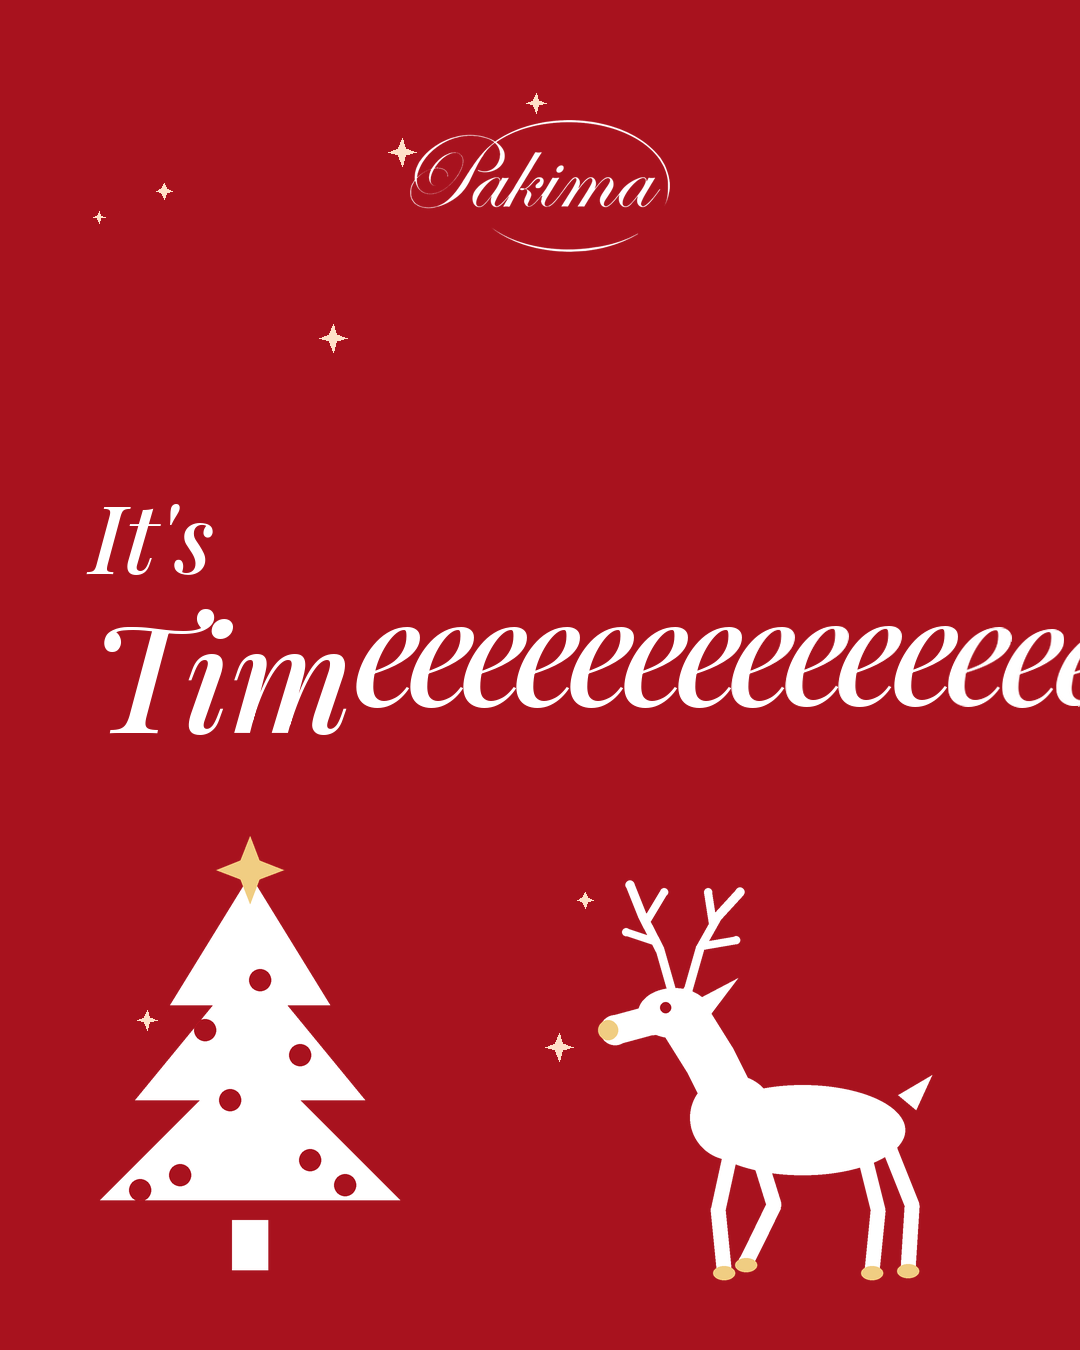
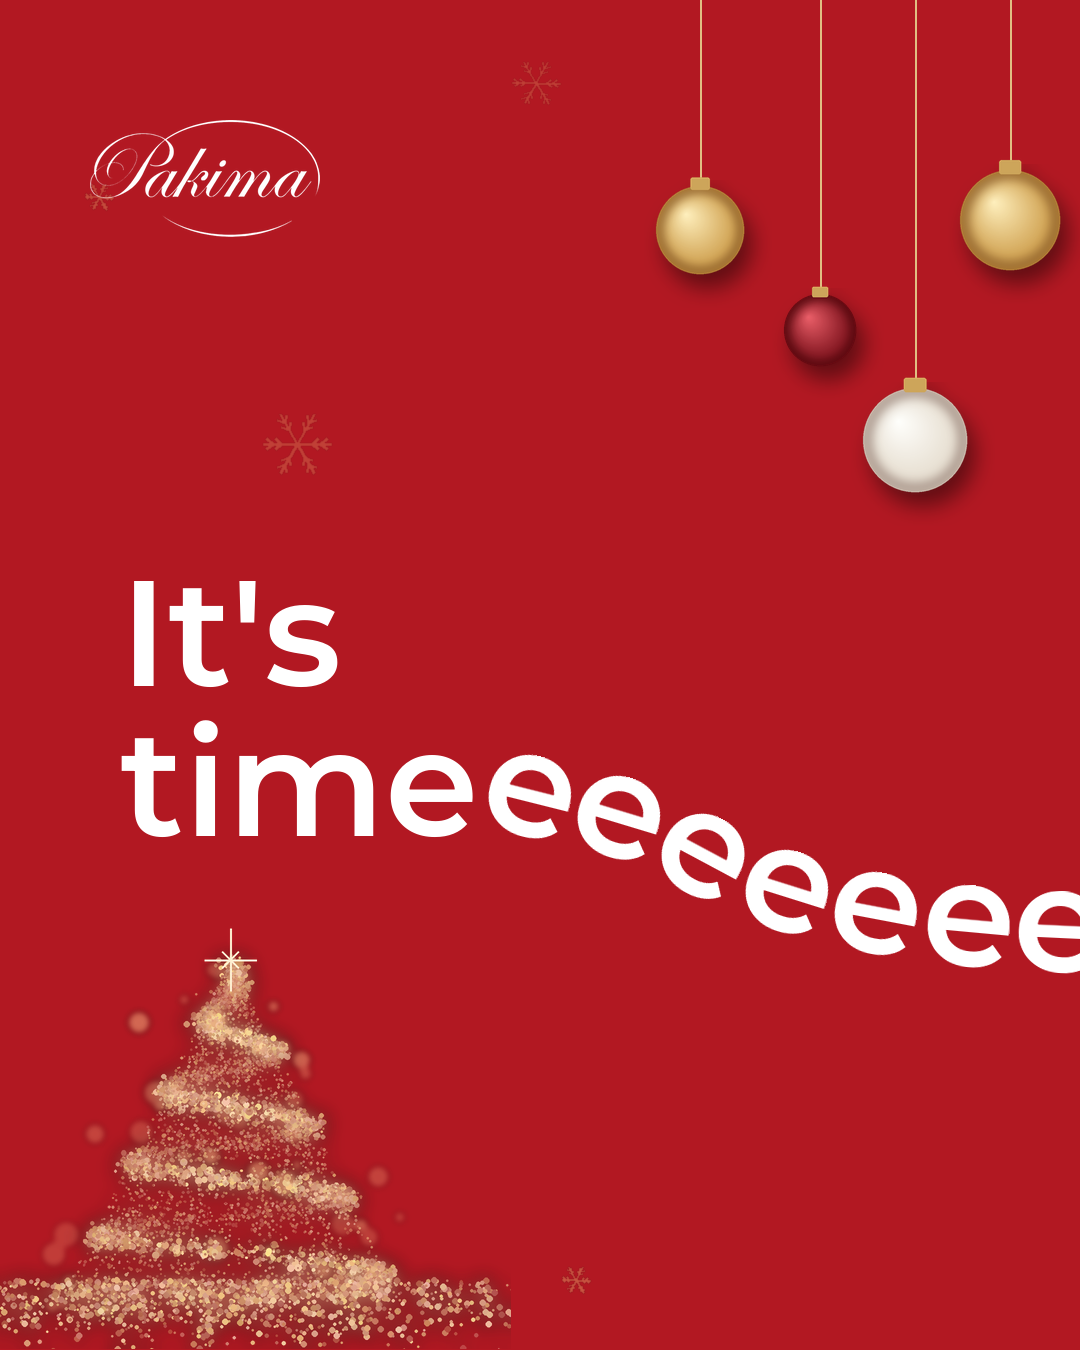
Carosello regali: stile elegante con alberello luminoso, palline e scia fluida
Claude-Session: https://claude.ai/code/session_01TRyadBTg1JbKFooPCfPKjK

diff --git a/output/2026-11-26-carosello-regali/crea.py b/output/2026-11-26-carosello-regali/crea.py
@@ -1,5 +1,10 @@
 #!/usr/bin/env python3
-"""Carosello continuo di Natale (trend "It's timeeee"): la scritta prosegue da una slide all'altra."""
+"""Carosello continuo di Natale "It's timeeee…": la scritta prosegue da una slide all'altra.
+
+Slide 1: "It's time" + scia di "e" (stesso carattere, scende morbida poi va dritta), alberello luminoso
+di particelle dorate, palline appese, fiocchi dorati. Slide 2-3: la scia ondeggia e fa un giro.
+Slide 4: "to find you the perfect gift" + 3 polaroid regalo.
+"""
 import math
 import random
 import sys
@@ -14,25 +19,149 @@ import genera as g  # noqa: E402
 
 W, H, N = 1080, 1350, 4
 TOT = W * N
-ROSSO = (168, 18, 30)
+ROSSO = (150, 16, 24)
 BIANCO = (255, 255, 255)
 CREMA = (250, 244, 236)
-F_CORS = str(RADICE / "studio/font/PlayfairDisplay-Italic.ttf")
-F_TIT = str(RADICE / "studio/font/PlayfairDisplay-SemiBold.ttf")
+ORO = (240, 196, 120)
 F_SANS = str(RADICE / "studio/font/Montserrat-SemiBold.ttf")
+F_CORS = str(RADICE / "studio/font/PlayfairDisplay-Italic.ttf")
 
 
 def font(p, s):
     return ImageFont.truetype(p, int(s))
 
 
-def stella(d, cx, cy, r, col):
-    k = r * 0.28
-    d.polygon([(cx, cy - r), (cx + k, cy - k), (cx + r, cy), (cx + k, cy + k),
-               (cx, cy + r), (cx - k, cy + k), (cx - r, cy), (cx - k, cy - k)], fill=col)
+# ---------------------------------------------------------------- decori
+
+def sfondo():
+    """Rosso profondo con una leggera luce al centro di ogni slide."""
+    tela = Image.new("RGBA", (TOT, H), ROSSO + (255,))
+    v = Image.new("L", (TOT // 8, H // 8), 0)
+    d = ImageDraw.Draw(v)
+    for k in range(N):
+        cx = (k * W + W / 2) / 8
+        d.ellipse((cx - W / 10, -H / 16, cx + W / 10, H / 8 + H / 16), fill=255)
+    v = v.filter(ImageFilter.GaussianBlur(30)).resize((TOT, H))
+    chiaro = Image.new("RGBA", (TOT, H), (178, 24, 34, 255))
+    return Image.composite(chiaro, tela, v)
 
 
-def catmull(pts, n=40):
+def fiocco(d, cx, cy, r, col, w=2):
+    for k in range(6):
+        a = math.radians(60 * k)
+        d.line([(cx, cy), (cx + r * math.cos(a), cy + r * math.sin(a))], fill=col, width=w)
+        for f in (0.45, 0.7):
+            bx, by = cx + r * f * math.cos(a), cy + r * f * math.sin(a)
+            for s in (-1, 1):
+                b = a + s * math.radians(40)
+                d.line([(bx, by), (bx + r * 0.25 * math.cos(b), by + r * 0.25 * math.sin(b))], fill=col, width=w)
+
+
+def fiocchi(tela, n, seme, zone_vietate):
+    random.seed(seme)
+    lay = Image.new("RGBA", tela.size, (0, 0, 0, 0))
+    d = ImageDraw.Draw(lay)
+    messi = 0
+    while messi < n:
+        x, y = random.randint(40, TOT - 40), random.randint(40, H - 40)
+        if any(x0 <= x <= x1 and y0 <= y <= y1 for x0, y0, x1, y1 in zone_vietate):
+            continue
+        r = random.choice([14, 18, 24, 34, 46])
+        fiocco(d, x, y, r, ORO + (int(random.uniform(45, 95)),), 2 if r < 30 else 3)
+        messi += 1
+    tela.alpha_composite(lay.filter(ImageFilter.GaussianBlur(0.6)))
+
+
+def alberello(tela, apex_x, apex_y, altezza, base_w, seme=5):
+    """Albero luminoso fatto di particelle dorate, con bagliore e bokeh alla base."""
+    random.seed(seme)
+    K = 2
+    lw, lh = int(base_w * 1.7), int(altezza * 1.3)
+    lay = Image.new("RGBA", (lw * K, lh * K), (0, 0, 0, 0))
+    d = ImageDraw.Draw(lay)
+    cx, top = lw * K / 2, 40 * K
+
+    def punto(x, y, r, a):
+        c = (255, random.randint(205, 235), random.randint(140, 190), int(max(0, min(255, a))))
+        d.ellipse((x - r, y - r, x + r, y + r), fill=c)
+
+    for _ in range(2600):  # spirale di luci attorno al cono
+        t = random.random() ** 0.8
+        y = top + t * altezza * K
+        ang = t * 9 * math.pi + random.uniform(-0.35, 0.35)
+        x = cx + t * base_w / 2 * K * math.sin(ang) + random.gauss(0, 6 * K)
+        prof = (math.cos(ang) + 1) / 2
+        punto(x, y + random.gauss(0, 4 * K), random.choice([1, 1, 1.5, 2, 2.5, 3]) * K * (0.6 + 0.6 * prof),
+              random.uniform(90, 255) * (0.45 + 0.55 * prof))
+    for _ in range(2200):  # riempimento morbido del cono
+        t = random.random() ** 0.7
+        punto(cx + random.uniform(-1, 1) * t * base_w / 2 * K, top + t * altezza * K,
+              random.choice([0.8, 1, 1.4]) * K, random.uniform(40, 150))
+    for _ in range(1400):  # polvere dorata alla base
+        punto(cx + random.gauss(0, base_w * 0.55) * K, top + altezza * K + abs(random.gauss(0, 30)) * K - 10 * K,
+              random.choice([1, 1.5, 2, 3]) * K, random.uniform(60, 220))
+    bok = Image.new("RGBA", lay.size, (0, 0, 0, 0))
+    db = ImageDraw.Draw(bok)
+    for _ in range(40):  # bokeh
+        t = random.random()
+        x = cx + random.uniform(-1, 1) * (t * base_w / 2 + 60) * K
+        y = top + t * altezza * K + random.uniform(-20, 60) * K
+        r = random.uniform(5, 14) * K
+        db.ellipse((x - r, y - r, x + r, y + r), fill=(255, 215, 150, random.randint(40, 110)))
+    bok = bok.filter(ImageFilter.GaussianBlur(3 * K))
+    glow = lay.filter(ImageFilter.GaussianBlur(9 * K))
+    out = Image.new("RGBA", lay.size, (0, 0, 0, 0))
+    out.alpha_composite(glow)
+    out.alpha_composite(glow)
+    out.alpha_composite(bok)
+    out.alpha_composite(lay)
+    ds = ImageDraw.Draw(out)  # stella-scintilla in cima
+    r = 26 * K
+    for a, l in [(0, 1), (90, 1.2), (45, 0.45), (135, 0.45)]:
+        aa = math.radians(a)
+        dx, dy = math.cos(aa) * r * l, math.sin(aa) * r * l
+        ds.line([(cx - dx, top - dy), (cx + dx, top + dy)], fill=(255, 240, 210, 255), width=2 * K)
+    out = out.resize((lw, lh), Image.LANCZOS)
+    tela.alpha_composite(out, (int(apex_x - lw / 2), int(apex_y - 40)))
+
+
+def pallina(tela, cx, y_centro, r, tipo):
+    """Pallina di Natale appesa a un filo, con riflesso e ombra."""
+    K = 3
+    S = int(r * 2 * K + 40 * K)
+    lay = Image.new("RGBA", (S, S), (0, 0, 0, 0))
+    d = ImageDraw.Draw(lay)
+    c, R = S / 2, r * K
+    base = {"oro": (200, 148, 62), "perla": (226, 216, 200), "rossa": (110, 8, 18)}[tipo]
+    luce = {"oro": (255, 240, 190), "perla": (255, 255, 252), "rossa": (235, 95, 105)}[tipo]
+    for i in range(80, 0, -1):
+        f = i / 80
+        col = tuple(int(base[j] * f + luce[j] * (1 - f)) for j in range(3))
+        rr = R * f
+        ox, oy = -R * 0.32 * (1 - f), -R * 0.36 * (1 - f)
+        d.ellipse((c + ox - rr, c + oy - rr, c + ox + rr, c + oy + rr), fill=col + (255,))
+    bordo = Image.new("L", (S, S), 0)
+    ImageDraw.Draw(bordo).ellipse((c - R, c - R, c + R, c + R), outline=110, width=int(R * 0.16))
+    scuro = Image.new("RGBA", (S, S), (50, 12, 10, 255))
+    scuro.putalpha(bordo.filter(ImageFilter.GaussianBlur(R * 0.1)))
+    lay.alpha_composite(scuro)
+    mask = Image.new("L", (S, S), 0)
+    ImageDraw.Draw(mask).ellipse((c - R, c - R, c + R, c + R), fill=255)
+    lay.putalpha(mask)
+    dc = ImageDraw.Draw(lay)  # cappuccio dorato
+    dc.rounded_rectangle((c - R * 0.22, c - R - R * 0.2, c + R * 0.22, c - R + R * 0.08), R * 0.05, fill=(205, 165, 90, 255))
+    lay = lay.resize((S // K, S // K), Image.LANCZOS)
+    om = Image.new("RGBA", lay.size, (0, 0, 0, 0))
+    om.putalpha(lay.getchannel("A").point(lambda v: int(v * 0.45)))
+    om = om.filter(ImageFilter.GaussianBlur(10))
+    ImageDraw.Draw(tela).line([(cx, 0), (cx, y_centro - r * 1.15)], fill=(225, 190, 130, 255), width=2)
+    tela.alpha_composite(om, (int(cx - lay.width / 2 + 8), int(y_centro - lay.height / 2 + 14)))
+    tela.alpha_composite(lay, (int(cx - lay.width / 2), int(y_centro - lay.height / 2)))
+
+
+# ---------------------------------------------------------------- scia di "e"
+
+def catmull(pts, n=50):
     out = []
     P = [pts[0]] + pts + [pts[-1]]
     for i in range(1, len(P) - 2):
@@ -47,35 +176,39 @@ def catmull(pts, n=40):
 
 
 def percorso(x0, y0):
-    """Scia di 'e': dritta nella slide 1, poi onda morbida, giro della morte, arrivo sul testo finale."""
-    c = [(x0, y0), (700, y0), (1000, y0), (1150, y0 + 15),
-         (1330, y0 + 110), (1530, y0 + 200), (1750, y0 + 170), (1950, y0 + 40), (2150, y0 - 10),
-         (2380, y0 + 80), (2600, y0 + 150), (2800, y0 + 20), (2770, y0 - 230), (2580, y0 - 280),
-         (2440, y0 - 120), (2560, y0 + 90), (2780, y0 + 170), (3020, y0 + 120), (3200, y0 - 60),
-         (3320, 420), (3380, 395)]
-    return catmull(c, 60)
+    """Scende morbida subito dopo "time", poi dritta; onda nella slide 2, giro nella 3, arrivo nella 4."""
+    c = [(x0, y0), (x0 + 110, y0 + 28), (x0 + 240, y0 + 90), (x0 + 390, y0 + 125), (x0 + 560, y0 + 138), (x0 + 720, y0 + 140),
+         (1300, y0 + 150), (1500, y0 + 230), (1720, y0 + 250), (1930, y0 + 150), (2150, y0 + 90),
+         (2380, y0 + 140), (2600, y0 + 170), (2800, y0 + 40), (2770, y0 - 190), (2580, y0 - 240),
+         (2440, y0 - 90), (2560, y0 + 110), (2790, y0 + 180), (3030, y0 + 120), (3200, y0 - 40),
+         (3320, 440), (3375, 420)]
+    return catmull(c, 70)
 
 
-def ricampiona(pts, passo):
-    out, acc = [pts[0]], 0.0
-    for (x1, y1), (x2, y2) in zip(pts, pts[1:]):
-        seg = math.hypot(x2 - x1, y2 - y1)
-        while acc + seg >= passo:
-            t = (passo - acc) / seg
-            x1, y1 = x1 + (x2 - x1) * t, y1 + (y2 - y1) * t
-            out.append((x1, y1))
-            seg = math.hypot(x2 - x1, y2 - y1)
-            acc = 0.0
-        acc += seg
-    return out
+def scia(tela, f, x0, y0):
+    base = Image.new("RGBA", (220, 240), (0, 0, 0, 0))
+    ImageDraw.Draw(base).text((10, 0), "e", font=f, fill=BIANCO)
+    base = base.crop(base.getbbox())
+    larg = f.getlength("e")
+    pts = percorso(x0 + larg / 2, y0)
+    acc, prossimo = 0.0, 0.0
+    for i in range(1, len(pts)):
+        (x1, y1), (x2, y2) = pts[i - 1], pts[i]
+        acc += math.hypot(x2 - x1, y2 - y1)
+        if acc >= prossimo:
+            ang = -math.degrees(math.atan2(y2 - y1, x2 - x1))
+            r = base.rotate(ang, resample=Image.BICUBIC, expand=True)
+            tela.alpha_composite(r, (int(x2 - r.width / 2), int(y2 - r.height / 2)))
+            prossimo = acc + larg * 0.98
 
+
+# ---------------------------------------------------------------- polaroid
 
 def polaroid(percorso_foto, w, h, didascalia, ang):
     pad, basso = 22, 92
     card = Image.new("RGBA", (w + 2 * pad, h + pad + basso), CREMA + (255,))
     im = ImageOps.exif_transpose(Image.open(RADICE / percorso_foto)).convert("RGB")
-    im = ImageOps.fit(im, (w, h), Image.LANCZOS, centering=(0.5, 0.45))
-    card.paste(im, (pad, pad))
+    card.paste(ImageOps.fit(im, (w, h), Image.LANCZOS, centering=(0.5, 0.45)), (pad, pad))
     d = ImageDraw.Draw(card)
     f = font(F_CORS, 40)
     tw = d.textlength(didascalia, font=f)
@@ -87,120 +220,39 @@ def polaroid(percorso_foto, w, h, didascalia, ang):
     return ombra.rotate(ang, resample=Image.BICUBIC, expand=True)
 
 
-def disegna_natale(tela):
-    K = 3
-    lay = Image.new("RGBA", (W * K, 500 * K), (0, 0, 0, 0))
-    d = ImageDraw.Draw(lay)
-    B, ORO = (255, 255, 255, 255), (240, 205, 130, 255)
-    # albero: tre livelli, tronco, stella, palline "bucate" nel colore dello sfondo
-    tx, base_y = 250 * K, 470 * K
-    d.rectangle((tx - 18 * K, base_y - 50 * K, tx + 18 * K, base_y), fill=B)
-    for j, (w, h, y) in enumerate([(300, 150, 400), (230, 140, 300), (160, 130, 205)]):
-        d.polygon([(tx - w / 2 * K, y * K), (tx + w / 2 * K, y * K), (tx, (y - h) * K)], fill=B)
-    for (px, py) in [(-70, 375), (60, 360), (-20, 300), (50, 255), (-45, 230), (10, 180), (95, 385), (-110, 390)]:
-        d.ellipse(((tx + px * K) - 11 * K, py * K - 11 * K, (tx + px * K) + 11 * K, py * K + 11 * K), fill=ROSSO + (255,))
-    stella(d, tx, 70 * K, 34 * K, ORO)
-    # renna (silhouette elegante, guarda a sinistra)
-    ox, oy = 560 * K, 70 * K
-    def P(x, y):
-        return (ox + x * K, oy + y * K)
-    def tratto(punti, w):
-        q = [P(*p) for p in punti]
-        d.line(q, fill=B, width=int(w * K), joint="curve")
-        for (x, y) in (q[0], q[-1]):
-            r = w * K / 2
-            d.ellipse((x - r, y - r, x + r, y + r), fill=B)
-    # corpo
-    d.ellipse((*P(140, 215), *P(345, 305)), fill=B)
-    d.ellipse((*P(130, 205), *P(215, 290)), fill=B)          # petto
-    # collo slanciato e testa
-    tratto([(175, 240), (150, 190), (125, 150)], 52)
-    d.ellipse((*P(78, 118), *P(150, 168)), fill=B)            # testa
-    tratto([(92, 150), (55, 160)], 30)                        # muso
-    d.ellipse((*P(38, 150), *P(58, 170)), fill=ORO)           # naso
-    d.ellipse((*P(100, 132), *P(111, 143)), fill=ROSSO + (255,))  # occhio
-    d.polygon([P(140, 128), P(178, 108), P(150, 145)], fill=B)    # orecchio
-    # corna ramificate
-    for pts, w in [([(112, 122), (100, 80), (82, 45), (70, 15)], 9), ([(96, 72), (66, 62)], 8), ([(86, 52), (104, 22)], 8),
-                   ([(128, 120), (140, 78), (158, 46), (180, 22)], 9), ([(141, 76), (176, 70)], 8), ([(153, 54), (148, 22)], 8)]:
-        tratto(pts, w)
-    # zampe (una sollevata, come in cammino)
-    tratto([(170, 285), (158, 340), (164, 400)], 15)
-    tratto([(200, 290), (214, 335), (196, 372), (186, 392)], 15)
-    tratto([(305, 288), (318, 340), (312, 400)], 15)
-    tratto([(330, 280), (352, 335), (348, 398)], 15)
-    # zoccoli
-    for (x, y) in [(164, 400), (186, 392), (312, 400), (348, 398)]:
-        d.ellipse((*P(x - 11, y - 4), *P(x + 11, y + 10)), fill=ORO)
-    # coda
-    d.polygon([P(338, 225), P(372, 205), P(356, 240)], fill=B)
-    lay = lay.resize((W, 500), Image.LANCZOS)
-    tela.alpha_composite(lay, (0, 800))
-
+# ---------------------------------------------------------------- composizione
 
 def main():
-    tela = Image.new("RGBA", (TOT, H), ROSSO + (255,))
-    d = ImageDraw.Draw(tela)
-    random.seed(3)
-    # stelline sparse su tutto il carosello (anche a cavallo delle slide)
-    for _ in range(46):
-        x, y = random.randint(40, TOT - 40), random.randint(60, H - 60)
-        if x > 3 * W + 100 and 280 < y < 600:
-            continue
-        if x < W and 430 < y < 790:
-            continue
-        stella(d, x, y, random.choice([6, 8, 10, 14]), (255, 225, 200, 255))
-
-    # slide 1: testo iniziale
-    f1 = font(F_CORS, 150)
-    lg = g.logo(g.STILE_BASE, True, 260)
-    tela.alpha_composite(lg, ((W - lg.width) // 2, 120))
-    d.text((90, 470), "It's", font=font(F_CORS, 96), fill=BIANCO)
-    d.text((90, 570), "Tim", font=f1, fill=BIANCO)
-    x_fine = 90 + d.textlength("Tim", font=f1)
-    y_o = 570 + 98  # centro verticale delle lettere minuscole
-
-    # scia di "e": grande e dritta nella slide 1, poi piu piccola e fluida
-    fo = font(F_CORS, 150)
-    base = Image.new("RGBA", (120, 200), (0, 0, 0, 0))
-    ImageDraw.Draw(base).text((10, 0), "e", font=fo, fill=BIANCO)
-    base = base.crop(base.getbbox())
-    dense = percorso(x_fine + base.width * 0.5, y_o)
-    def scala(x):
-        u = max(0.0, min(1.0, (x - 980) / 420))
-        return 1 - 0.42 * (u * u * (3 - 2 * u))
-    acc, prossimo = 0.0, 0.0
-    for i in range(1, len(dense)):
-        (x1, y1), (x2, y2) = dense[i - 1], dense[i]
-        acc += math.hypot(x2 - x1, y2 - y1)
-        if acc >= prossimo:
-            sc = scala(x2)
-            ang = -math.degrees(math.atan2(y2 - y1, x2 - x1))
-            e = base.resize((max(1, int(base.width * sc)), max(1, int(base.height * sc))), Image.LANCZOS)
-            r = e.rotate(ang, resample=Image.BICUBIC, expand=True)
-            tela.alpha_composite(r, (int(x2 - r.width / 2), int(y2 - r.height / 2)))
-            prossimo = acc + base.width * sc * 0.82
-
-    # albero di Natale e renna (slide 1, in basso)
-    disegna_natale(tela)
-
-    # slide 2 e 3: piccoli testi di accompagnamento
-    pass
-
-    # slide 4: arrivo
+    tela = sfondo()
     x4 = 3 * W
+    fiocchi(tela, 30, 3, [(60, 520, 1080, 900), (x4 + 120, 280, x4 + 1080, 1300), (0, 900, 560, 1350),
+                          (600, 0, 1080, 560)])
+
+    # slide 1
+    f1 = font(F_SANS, 150)
+    d = ImageDraw.Draw(tela)
+    tela.alpha_composite(g.logo(g.STILE_BASE, True, 230), (90, 120))
+    y_its = 540
+    d.text((120, y_its), "It's", font=f1, fill=BIANCO)
+    y_time = y_its + 150
+    d.text((120, y_time), "time", font=f1, fill=BIANCO)
+    x_fine = 120 + d.textlength("time", font=f1)
+    bb = f1.getbbox("e")
+    scia(tela, f1, x_fine + 4, y_time + (bb[1] + bb[3]) / 2)
+    for cx, yc, r, tipo in [(700, 230, 44, "oro"), (820, 330, 36, "rossa"), (1010, 220, 50, "oro"), (915, 440, 52, "perla")]:
+        pallina(tela, cx, yc, r, tipo)
+    alberello(tela, 230, 960, 330, 330)
+
+    # slide 4
     for j, riga in enumerate(["to find you", "the perfect gift"]):
-        f = font(F_CORS, 96)
-        d.text((x4 + 165 + j * 40, 330 + j * 110), riga, font=f, fill=BIANCO)
+        d.text((x4 + 160 + j * 30, 340 + j * 96), riga, font=font(F_SANS, 78), fill=BIANCO)
     foto = [("foto/ai/regalo-maglione-nero-paillettes.png", "un maglione", 6, (x4 + 40, 610)),
             ("foto/ai/regalo-borsa-beige.png", "una borsa", -4, (x4 + 370, 570)),
             ("foto/ai/regalo-collane-cristalli.png", "un gioiello", 5, (x4 + 700, 625))]
     for p, nome, ang, (px, py) in foto:
-        c = polaroid(p, 250, 300, nome, ang)
-        tela.alpha_composite(c, (px - 30, py))
+        tela.alpha_composite(polaroid(p, 250, 300, nome, ang), (px - 30, py))
     fv = font(F_SANS, 30)
-    t = "PAKIMA · VIA CAVOUR 7 · VIMERCATE"
-    sp = 5
+    t, sp = "PAKIMA · VIA CAVOUR 7 · VIMERCATE", 5
     tw = sum(fv.getlength(ch) + sp for ch in t) - sp
     x = x4 + (W - tw) / 2
     for ch in t:
